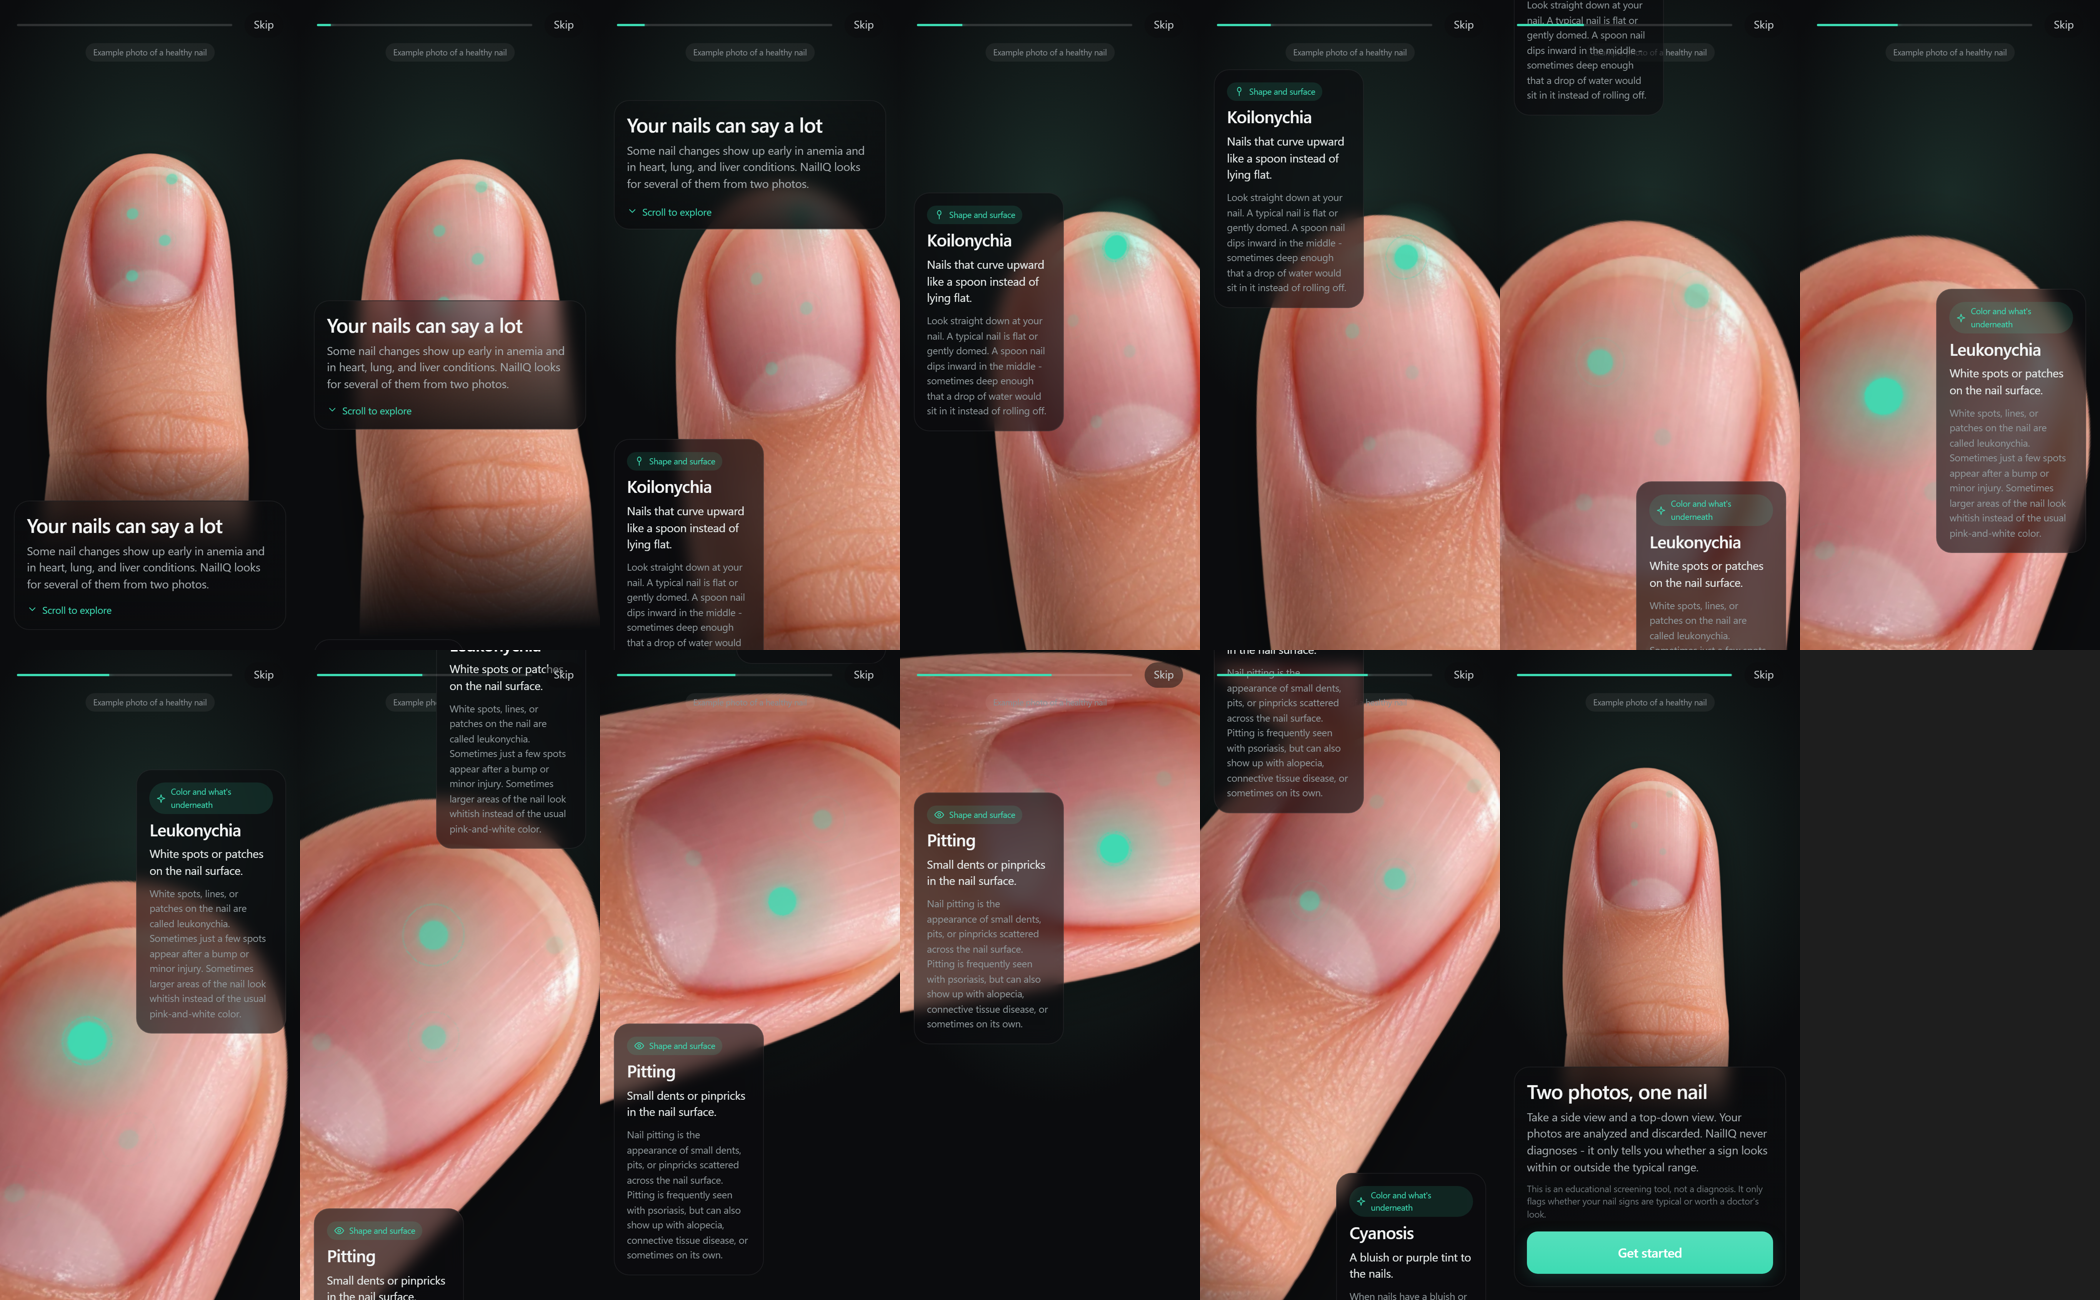
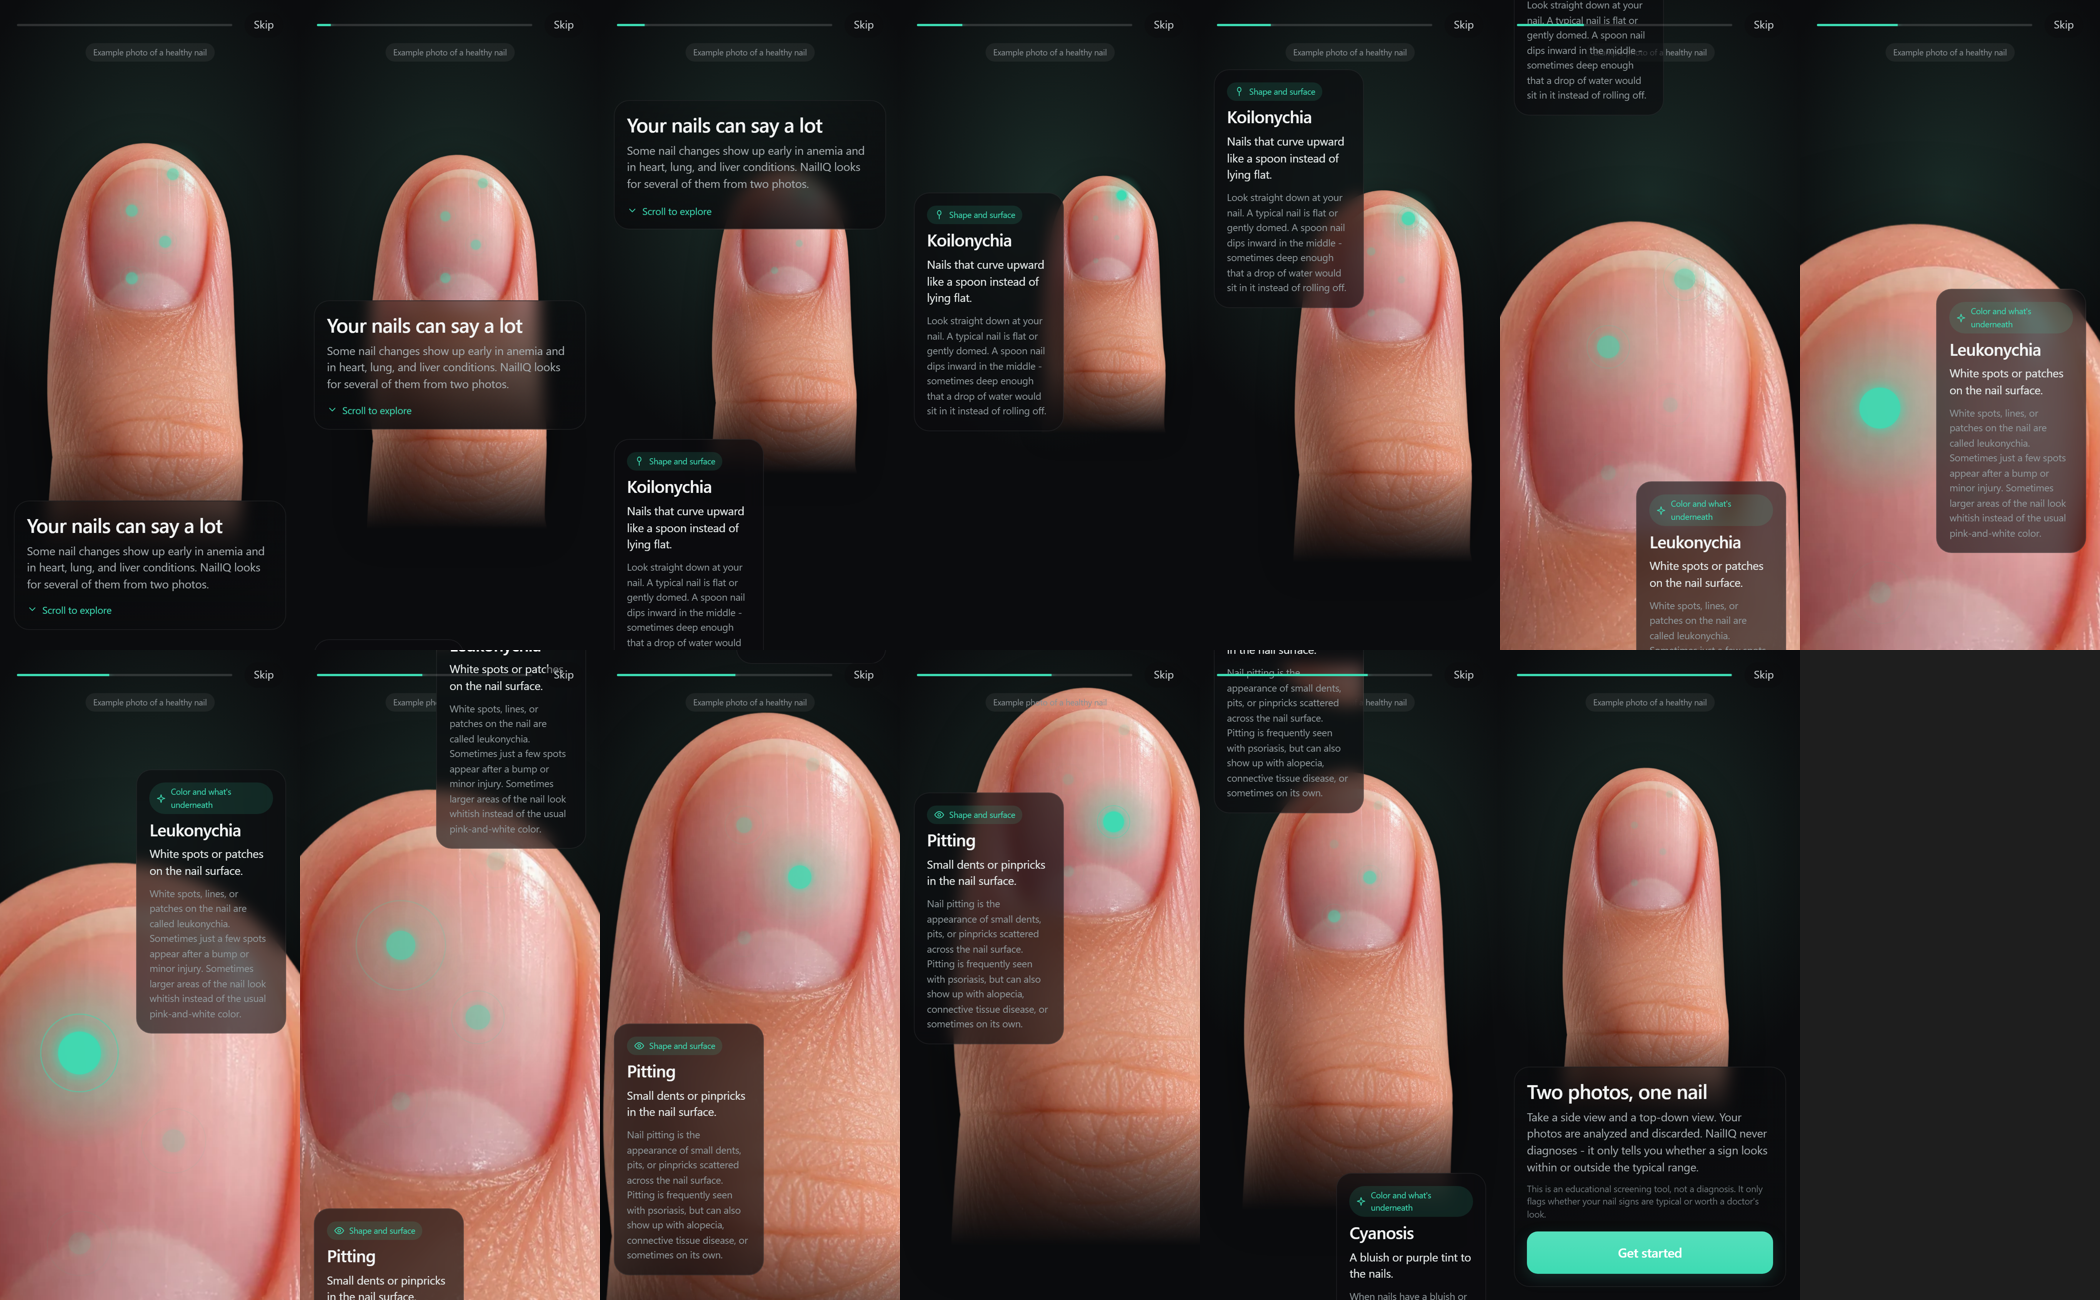
Onboarding: no rotation; vary finger size and position per section (small beside the text, macro, medium)

diff --git a/frontend/src/components/Onboarding.jsx b/frontend/src/components/Onboarding.jsx
@@ -12,20 +12,19 @@ const IMG_H = 1820
 const IMG_AR = IMG_W / IMG_H
 const NAIL_X = 0.49
 
-// One scroll section each: the text scrolls like a normal page while the sticky photo flies to that section's pose.
-// `side` is where the text sits; a sign's own point (focus) is pinned to the free side of the screen at (tx, ty), so
-// the card never covers it. Everything else is free choreography: zoom s, spin r, 3D lean rx/ry (degrees).
+// One scroll section each: the text scrolls like a normal page while the sticky photo moves and resizes to that
+// section's pose (never rotated). `side` is where the text sits; a sign's own point (focus) is pinned to the free side
+// of the screen at (tx, ty), so the card never covers it. `s` is the size: small versions sit beside the text.
 const SECTIONS = [
-  { id: 'welcome', wide: true, focus: { x: NAIL_X, y: 0.385 }, tx: 0.5, ty: 0.36, s: 0.8, r: 0, rx: 16, ry: -8 },
-  { id: 'koilonychia', side: 'left', group: 'shape', dot: { x: 0.58, y: 0.27 }, tx: 0.72, ty: 0.38, s: 1.3, r: -14, rx: 8, ry: -30 },
-  { id: 'leukonychia', side: 'right', group: 'color', dot: { x: 0.42, y: 0.34 }, tx: 0.28, ty: 0.62, s: 2.0, r: 24, rx: -14, ry: 14 },
-  { id: 'pitting', side: 'left', group: 'shape', dot: { x: 0.55, y: 0.4 }, tx: 0.72, ty: 0.3, s: 1.5, r: 85, rx: 0, ry: 0 },
-  { id: 'cyanosis', side: 'right', group: 'color', dot: { x: 0.42, y: 0.47 }, tx: 0.28, ty: 0.45, s: 1.35, r: -28, rx: 14, ry: -16 },
-  { id: 'photos', wide: true, focus: { x: NAIL_X, y: 0.385 }, tx: 0.5, ty: 0.3, s: 0.68, r: 0, rx: 0, ry: 0 },
+  { id: 'welcome', wide: true, focus: { x: NAIL_X, y: 0.385 }, tx: 0.5, ty: 0.36, s: 0.8 },
+  { id: 'koilonychia', side: 'left', group: 'shape', dot: { x: 0.58, y: 0.27 }, tx: 0.74, ty: 0.3, s: 0.5 },
+  { id: 'leukonychia', side: 'right', group: 'color', dot: { x: 0.42, y: 0.34 }, tx: 0.26, ty: 0.64, s: 2.3 },
+  { id: 'pitting', side: 'left', group: 'shape', dot: { x: 0.55, y: 0.4 }, tx: 0.72, ty: 0.26, s: 1.1 },
+  { id: 'cyanosis', side: 'right', group: 'color', dot: { x: 0.42, y: 0.47 }, tx: 0.26, ty: 0.52, s: 0.55 },
+  { id: 'photos', wide: true, focus: { x: NAIL_X, y: 0.385 }, tx: 0.5, ty: 0.3, s: 0.68 },
 ].map((sec) => ({ ...sec, focus: sec.focus ?? sec.dot }))
 const SIGN_SECTIONS = SECTIONS.filter((s) => s.dot)
 
-const PERSPECTIVE = 1100
 const ease = (x) => x * x * (3 - 2 * x)
 const lerp = (a, b, t) => a + (b - a) * t
 const clamp01 = (x) => Math.min(1, Math.max(0, x))
@@ -105,9 +104,6 @@ export default function Onboarding({ onDone }) {
     tx: lerp(A.tx, B.tx, u),
     ty: lerp(A.ty, B.ty, u),
     s: lerp(A.s, B.s, u),
-    r: lerp(A.r, B.r, u),
-    rx: lerp(A.rx, B.rx, u),
-    ry: lerp(A.ry, B.ry, u),
   }
 
   // each sign's point glows while the camera is on (or arriving at) its section; the welcome view shows them all softly
@@ -118,22 +114,10 @@ export default function Onboarding({ onDone }) {
     near[p.id] = clamp01(Math.max(w, soft))
   })
 
-  // Place photo point (fx, fy) at screen (tx, ty). The camera box is transformed about its center as
-  // perspective(d) translate(dx, dy) rotateX rotateY rotate scale, so push the point through the same rotations and
-  // perspective divide, then solve for the translation.
+  // Place photo point (fx, fy) at screen (tx, ty); the camera box is scaled about its center.
   const Wc = size.H * IMG_AR
-  const rad = (v) => (v * Math.PI) / 180
-  const lx = (pose.fx * Wc - Wc / 2) * pose.s
-  const ly = (pose.fy * size.H - size.H / 2) * pose.s
-  const x1 = Math.cos(rad(pose.r)) * lx - Math.sin(rad(pose.r)) * ly
-  const y1 = Math.sin(rad(pose.r)) * lx + Math.cos(rad(pose.r)) * ly
-  const x2 = Math.cos(rad(pose.ry)) * x1
-  const z2 = -Math.sin(rad(pose.ry)) * x1
-  const y3 = Math.cos(rad(pose.rx)) * y1 - Math.sin(rad(pose.rx)) * z2
-  const z3 = Math.sin(rad(pose.rx)) * y1 + Math.cos(rad(pose.rx)) * z2
-  const k = PERSPECTIVE / (PERSPECTIVE - z3)
-  const dx = (pose.tx * size.W - size.W / 2) / k - x2
-  const dy = (pose.ty * size.H - size.H / 2) / k - y3
+  const dx = pose.tx * size.W - size.W / 2 - pose.s * (pose.fx * Wc - Wc / 2)
+  const dy = pose.ty * size.H - size.H / 2 - pose.s * (pose.fy * size.H - size.H / 2)
 
   const finish = () => {
     markOnboarded()
@@ -157,7 +141,7 @@ export default function Onboarding({ onDone }) {
                 width: Wc,
                 height: size.H,
                 left: (size.W - Wc) / 2,
-                transform: `perspective(${PERSPECTIVE}px) translate(${dx}px, ${dy}px) rotateX(${pose.rx}deg) rotateY(${pose.ry}deg) rotate(${pose.r}deg) scale(${pose.s})`,
+                transform: `translate(${dx}px, ${dy}px) scale(${pose.s})`,
               }}
             >
               <NailPhoto near={near} />
